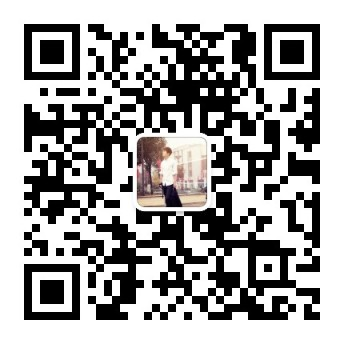
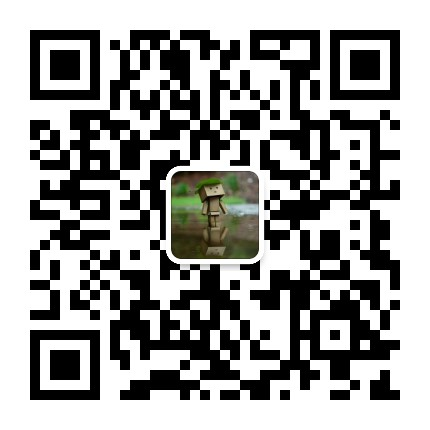
完善技术博客页面

diff --git a/src/main/resources/templates/web/index.html b/src/main/resources/templates/web/index.html
@@ -103,17 +103,18 @@
         <p>现居：四川省-成都市</p>
         <p>Email：849673404@qq.com</p>
         <ul class="linkmore">
-          <li><a href="http://www.luotf.com" target="_blank"
+          <li><a href="/web/index" target="_blank"
             class="iconfont icon-zhuye" title="网站地址"></a></li>
           <li><a
-            href="http://mail.qq.com/cgi-bin/qm_share?t=qm_mailme&email=-MTIxcrLz8jMyLyNjdKfk5E"
-            target="_blank" class="iconfont icon-youxiang" title="我的邮箱"></a></li>
-          <li><a
-            href="http://wpa.qq.com/msgrd?v=3&uin=849673404&site=qq&menu=yes"
-            target="_blank" class="iconfont icon---" title="QQ联系我"></a></li>
+            href="http://mail.qq.com/cgi-bin/qm_share?t=qm_mailme&email=YVJXUFhQVVZZUCEQEE8CDgw"
+            target="_blank" class="iconfont icon-youxiang" title="期待你的来信"></a></li>
+          <li>
+            <a href="http://wpa.qq.com/msgrd?v=3&uin=361914781&site=qq&menu=yes"
+            target="_blank" class="iconfont icon---" title="QQ联系我"></a>
+          </li>
           <li id="weixin">
             <a href="#" target="_blank"class="iconfont icon-weixin" title="关注我的微信"></a><i>
-            <img th:src="@{/web/images/my_vx.png}"></i>
+            <img th:src="@{/web/images/mx.png}"></i>
           </li>
         </ul>
       </div>
@@ -161,13 +162,13 @@
         <h2 class="cloud_hometitle">来波关注</h2>
         <ul>
           <li class="qq">
-            <a href="javascript:void(0)" target="_blank"><span>QQ号</span>849673404</a>
+            <a href="javascript:void(0)" target="_blank"><span>QQ号</span>361914781</a>
           </li>
           <li class="email">
-            <a href="javascript:void(0)" target="_blank"><span>邮箱帐号</span>849673404@qq.com</a>
+            <a href="javascript:void(0)" target="_blank"><span>邮箱帐号</span>yanakai@126.com</a>
           </li>
           <li class="wxgzh">
-            <a href="javascript:void(0)" target="_blank"><span>微信号</span>luo849673404</a>
+            <a href="javascript:void(0)" target="_blank"><span>微信号</span>yanakai</a>
           </li>
           <li class="wx" style="border:none">
             <img th:src="@{/web/images/wx.jpg}">

diff --git a/src/main/resources/static/web/js/index.js b/src/main/resources/static/web/js/index.js
@@ -80,8 +80,12 @@ function showAdToGitEE() {
   });
 }
 
-$(window).scroll(
-  function() {
+$(window).scroll(function() {
+    if ($(document).scrollTop() > 2200 && width > 700) {
+      $(".guanzhu").css("display", "block");
+    } else {
+      $(".guanzhu").css("display", "none");
+    }
     if (isEnd == true) {
       return;
     }
@@ -110,11 +114,6 @@ $(window).scroll(
       $(".top").addClass('cd-is-visible fadeIn');
     } else {
       $(".top").removeClass('cd-is-visible fadeOut');
-    }
-    if ($(document).scrollTop() > 2200 && width > 700) {
-      $(".guanzhu").css("display", "block");
-    } else {
-      $(".guanzhu").css("display", "none");
     }
     if ($(document).scrollTop() + 100 >= $(document).height()- $(window).height()&& width > 700) {
       isEnd = true;
